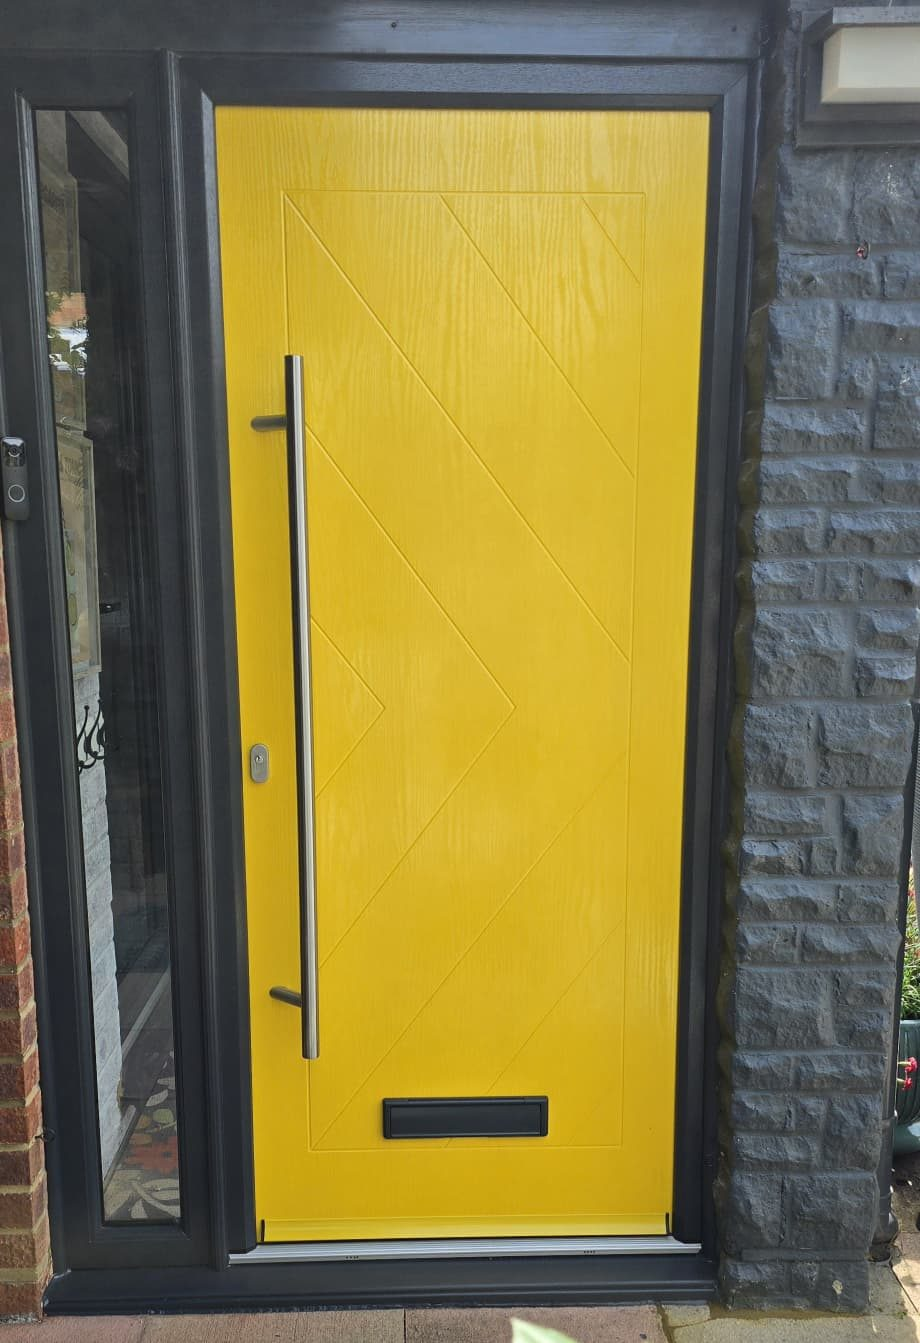
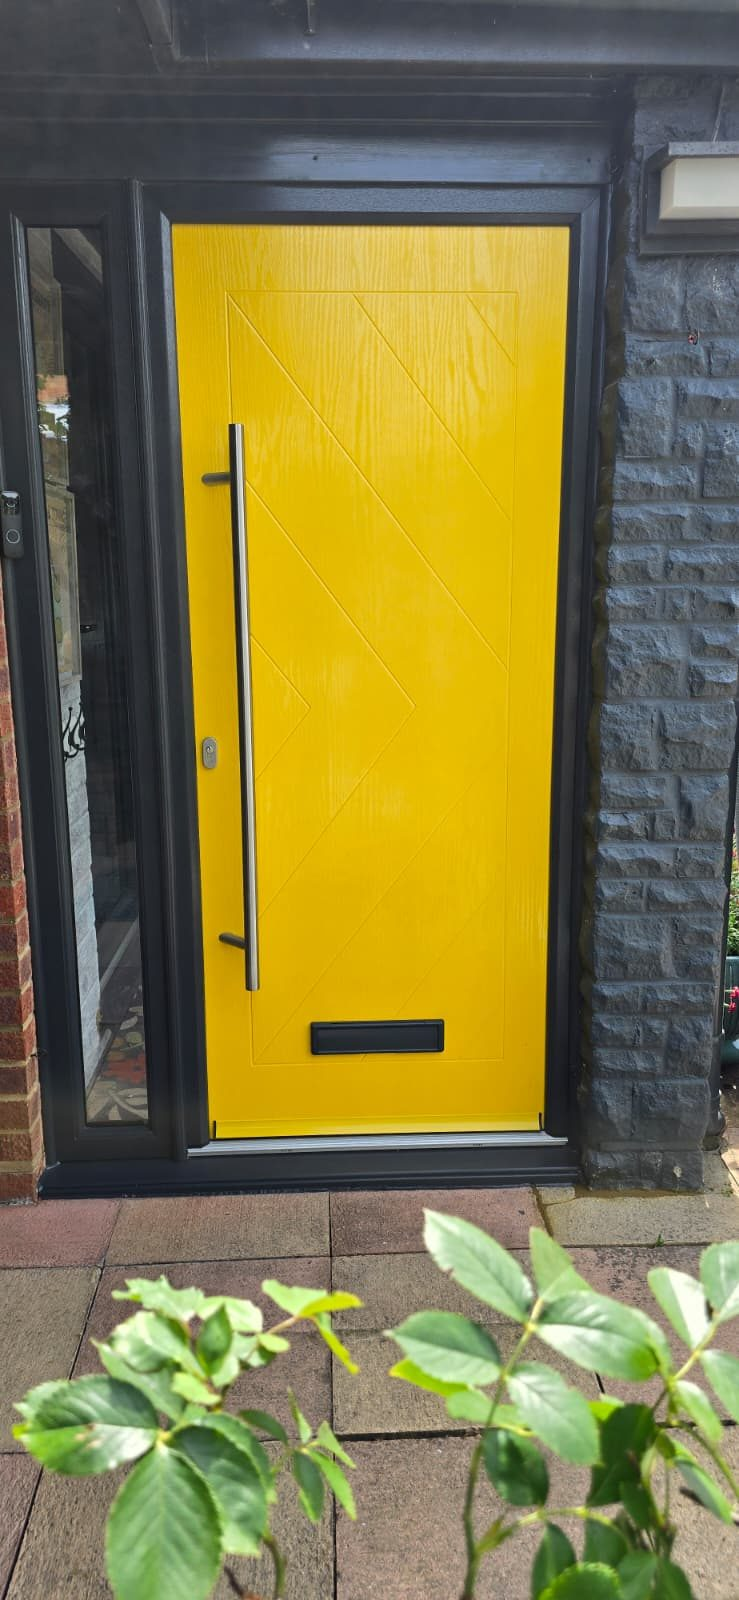
Drayton Parslow: the owner's replacement front door photograph
The after shot is now the whole door in the porch rather than a tight
frame on the slab: the sidelight, the anthracite frame, the stone pillar
and the threshold are all in it. Caption widened to match what is now in
the picture.

diff --git a/app/public/wp-content/themes/fenster/inc/case-studies-data.php b/app/public/wp-content/themes/fenster/inc/case-studies-data.php
@@ -1368,7 +1368,7 @@ function fenster_case_studies(): array
             ],
             'images' => [
                 ['src' => $img . 'cs-drayton-parslow-front-door-before.jpg', 'caption' => 'Before: the old front door in the porch, yellow already, with a leaded rose in the glass and a sidelight beside it.'],
-                ['src' => $img . 'cs-drayton-parslow-front-door-after.jpg', 'caption' => 'After: the colza yellow slab, grooved on the diagonal, with a long bar handle and the sidelight carrying the light into the hall.'],
+                ['src' => $img . 'cs-drayton-parslow-front-door-after.jpg', 'caption' => 'After: the colza yellow door in the porch, its slab grooved on the diagonal, with a long bar handle and the glazed sidelight carrying the light into the hall.'],
                 ['src' => $img . 'cs-drayton-parslow-stable-door-before.jpg', 'caption' => 'Before: the side door in the passage between the house and the garage, painted, with a blind hanging behind the glass.'],
                 ['src' => $img . 'cs-drayton-parslow-stable-door-after.jpg', 'caption' => 'After: the traffic orange stable door closed, with the weather bar across the joint and the glazed pane in the top half.'],
                 ['src' => $img . 'cs-drayton-parslow-stable-door-handle.jpg', 'caption' => 'The hardware. Lever and cylinder on the top leaf, a second cylinder on the bottom, so each half locks on its own.'],
